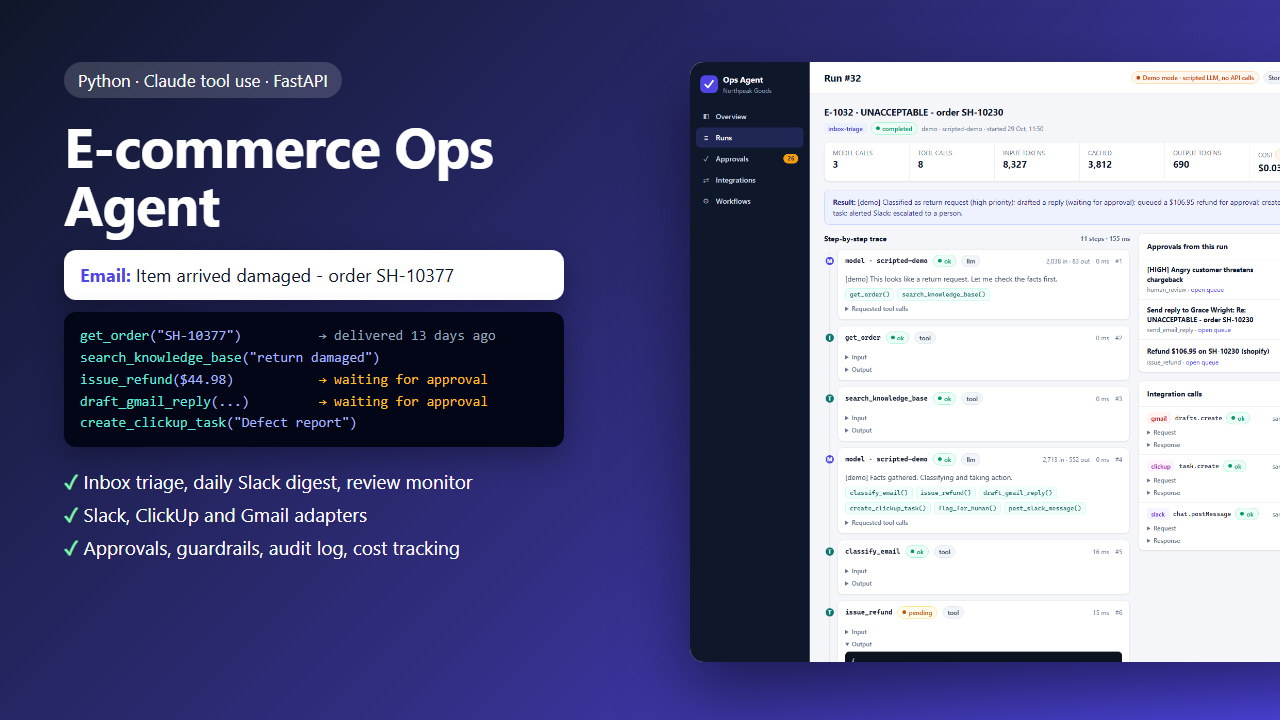
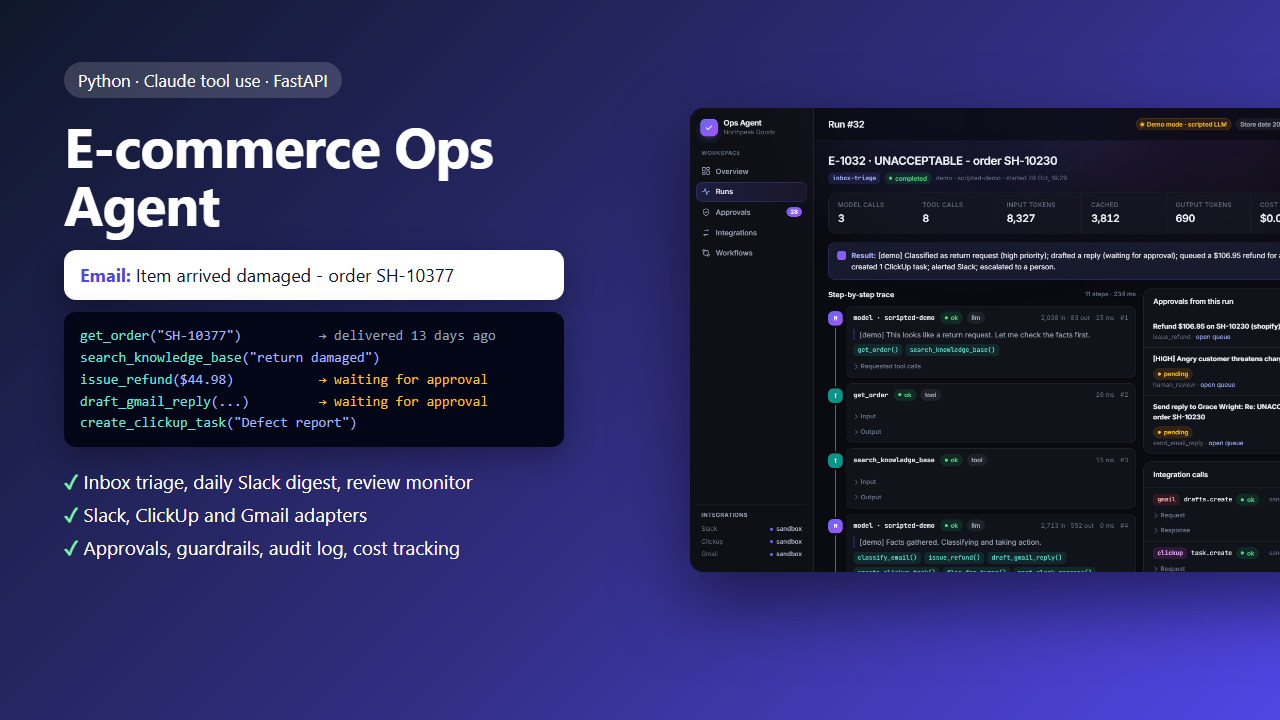
Update cover image to the new design

diff --git a/examples/cover.html b/examples/cover.html
@@ -12,7 +12,7 @@
   pre .k { color:#5eead4; } pre .p { color:#fbbf24; } pre .m { color:#94a3b8; }
   ul { list-style:none; padding:0; margin:0; font-size:19px; line-height:1.75; }
   li::before { content:"✓  "; color:#86efac; font-weight:700; }
-  .shot { position:absolute; right:-70px; top:62px; width:660px; height:600px; border-radius:14px; overflow:hidden; box-shadow:0 30px 70px rgba(0,0,0,.5); background:#fff; }
+  .shot { position:absolute; right:-70px; top:108px; width:660px; border-radius:14px; overflow:hidden; box-shadow:0 30px 70px rgba(0,0,0,.5); background:#0a0b10; }
   .shot img { width:100%; display:block; }
 </style></head><body>
   <div class="left">
